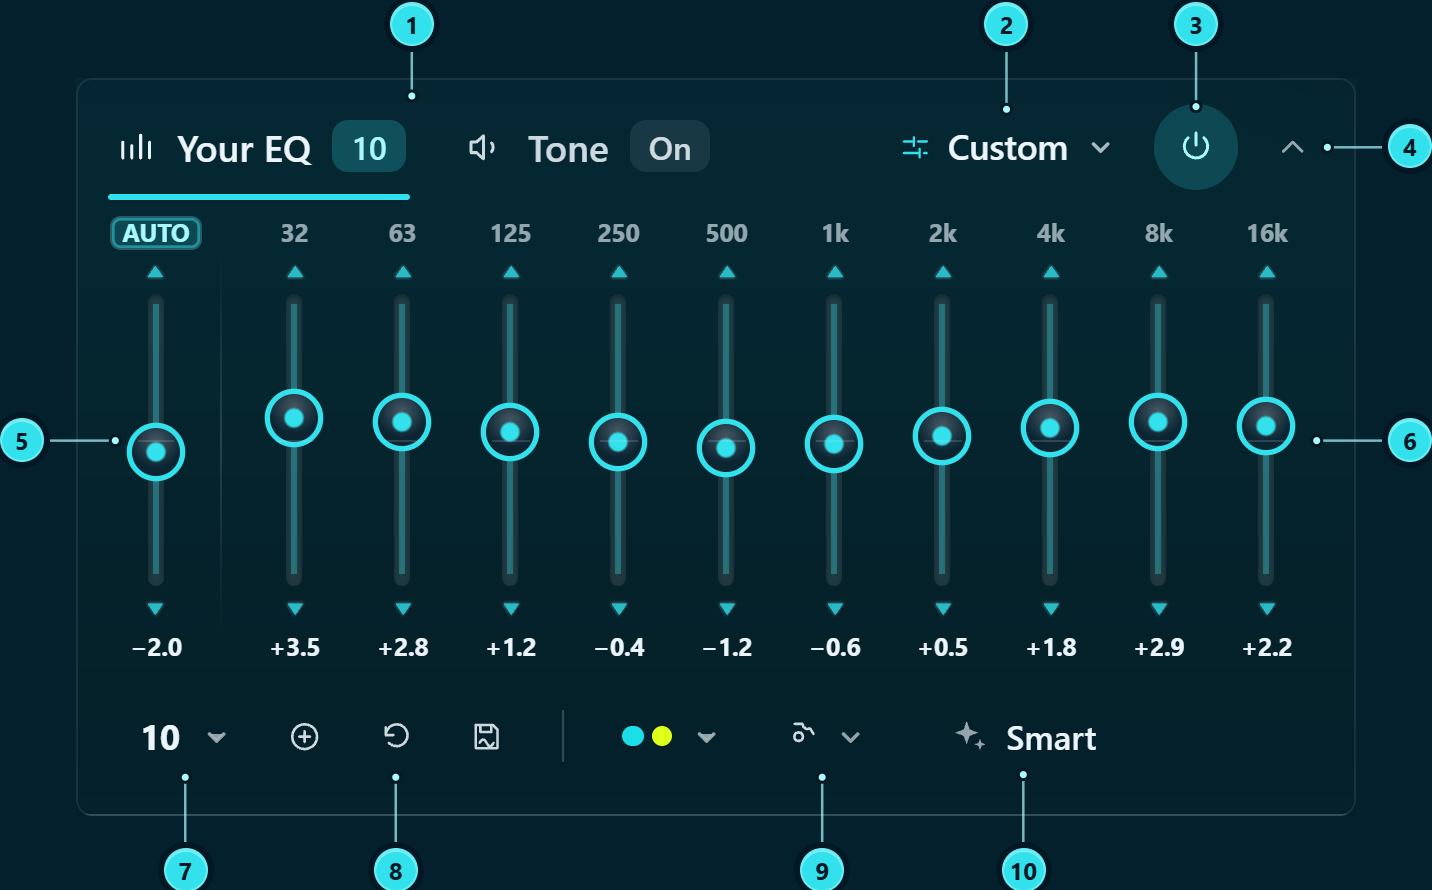
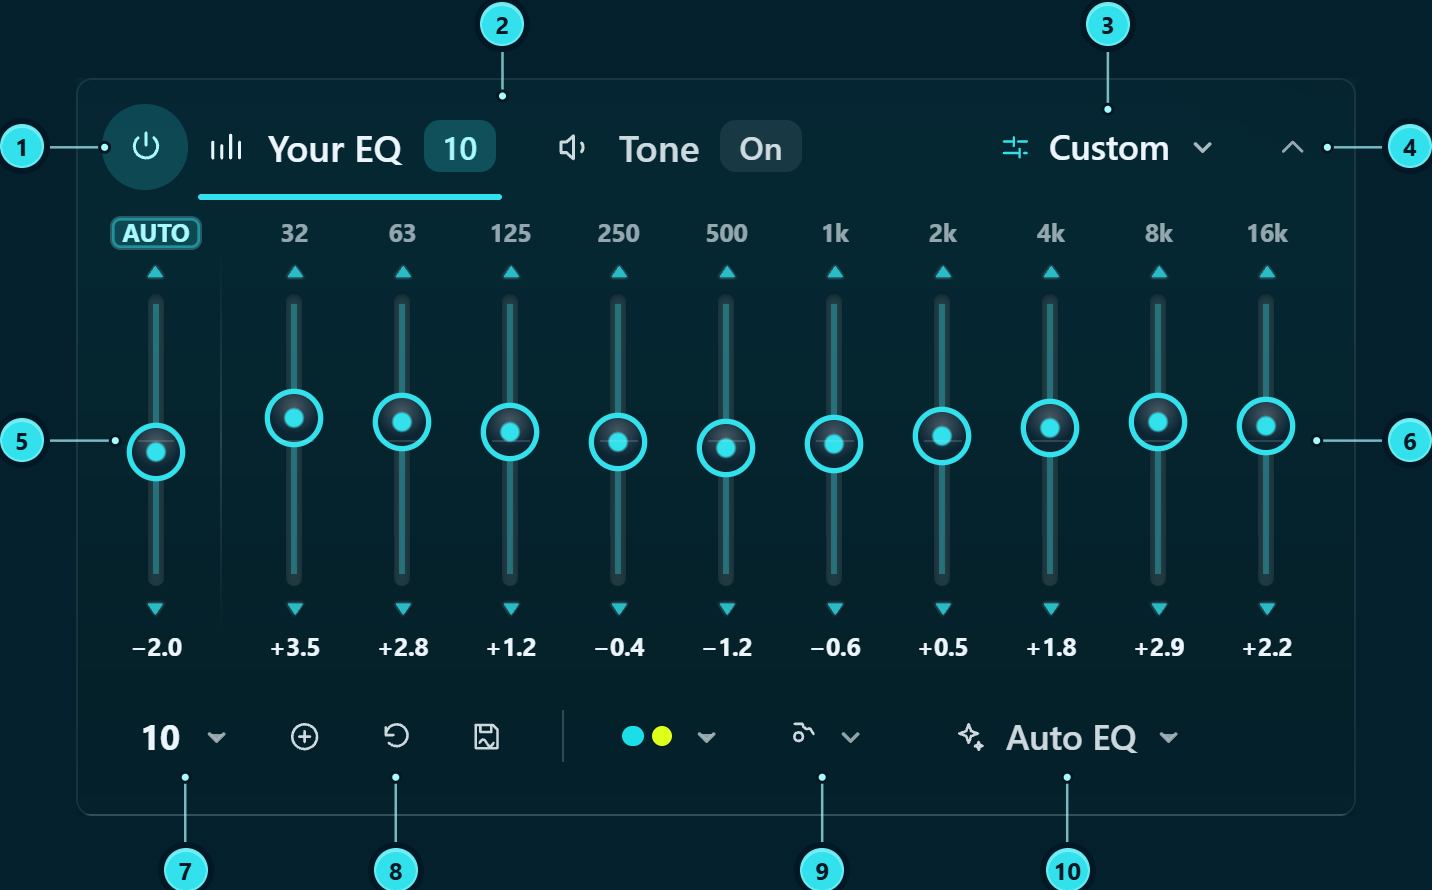
The amp's Smart key gives way to the EQ page's Auto EQ, Smart correction inside its panel
Ivan, 2026-11-27: "smart eq button need to go, instead we show the auto eq
with that menu that have smart eq inside". The amp's two tool rows, under the
faders and under the tone dials, end on AutoEqButton, the page's own
component: its icon, its word and state, its Save half and its panel (song
sounds, album sounds, Smart correction, Manage, Measure once). The panel is
an AnchoredMenu on the button, so it opens over the amp.

- Removed with the key: SmartEqKey.tsx, the .player-split and .player-led
  rules in _miniPlayerSound, _miniPlayerEqKeys and _miniPlayerKeys, the
  lamp's breathing keyframes, the spark glyph in PlayerIcon, and the strings
  only it read (player.eq.smart, eq.smart.cancel) in all 12 locales.
- Help: the chapter's Auto EQ callout targets .eq-auto under the page's name
  for it; the picture draws Auto EQ as the page does (PictureAutoEq). The
  callouts follow the head left to right now that the power key leads it
  (172307cfa): power, the tabs, the preset, the fold. docs/help/
  player-sound.png re-taken.

Checked in the harness at 480 and 700, dark and white: the row fits at its
glyph-only step at 480 and with its words at 700, and the Auto EQ panel
opens inside the amp (8-448 px of 480). Jest, one worker: 34 targeted
suites (player/, AutoEq*, autoEq, help figures and search, i18n keys,
smartEqModeRetired, smartPhaseNote, AppAmpSleep) green. tsc, eslint,
check-styles clean.

diff --git a/src/renderer/styles/_miniPlayerSound.scss b/src/renderer/styles/_miniPlayerSound.scss
@@ -118,75 +118,6 @@ SPDX-License-Identifier: GPL-3.0-or-later
   }
 }
 
-// SMART (Ivan, 2026-11-27: "smart eq ... spark", from the mockups): its
-// spark and its word in the row's quiet type. On, the whole key takes Smart
-// correction's own blue, the colour its line is drawn in on the curve. It was
-// SMART in capitals beside a grey dot, and read as a label rather than a key.
-.mini-player .player-sound .player-split {
-  @include player-quiet(30px);
-  gap: 0;
-  padding: 0;
-  overflow: hidden;
-  cursor: default;
-
-  // The housing is not a control and lights nothing; the switch in it does.
-  &:hover:not(:disabled) {
-    background: none;
-  }
-
-  > .button.player-split__main {
-    gap: 6px;
-    padding: 0 10px;
-
-    &,
-    &:hover:not(:disabled),
-    &:active:not(:disabled) {
-      min-height: 30px;
-      font: inherit;
-    }
-  }
-
-  .player-split__spark {
-    width: 15px;
-    height: 15px;
-    color: var(--player-text-soft);
-    transition: color 160ms ease;
-  }
-
-  // The word alone: a Cancel named on the key pushed the row wider than the
-  // amp (Ivan, 2026-10-25); the spark breathing says it is measuring.
-  .player-led__value {
-    display: none;
-  }
-
-  // On: one face, the key's. The switch's own pressed face, the amp's lit
-  // key, would paint a second colour inside it.
-  > .button.player-split__main[aria-pressed='true']:not(:disabled) {
-    background: none;
-    box-shadow: none;
-  }
-
-  &:has(> .player-split__main[aria-pressed='true']:not(:disabled)) {
-    background: color-mix(in srgb, var(--player-curve-smart) 22%, transparent);
-    color: var(--player-text);
-
-    .player-split__spark {
-      color: var(--player-curve-smart);
-    }
-  }
-
-  // Measuring: the spark breathes while Smart correction listens.
-  &.is-running .player-split__spark {
-    animation: player-lamp-breathe 1.2s ease-in-out infinite;
-  }
-}
-
-@media (prefers-reduced-motion: reduce) {
-  .mini-player .player-sound .player-split.is-running .player-split__spark {
-    animation: none;
-  }
-}
-
 // FluidEQ on or off, as the power sign on a round key: bare while off, lit
 // in the accent while on.
 .player-sound__power {

diff --git a/src/renderer/components/featureTour/PlayerPictureSoundRows.tsx b/src/renderer/components/featureTour/PlayerPictureSoundRows.tsx
@@ -6,6 +6,7 @@ SPDX-License-Identifier: GPL-3.0-or-later
 
 import type { ReactNode } from 'react';
 import '../../styles/EqLayers.scss';
+import '../../styles/EqAutoPanel.scss';
 import EqModeTriggerFace from '../eqMode/EqModeTriggerFace';
 import Chevron from '../../icons/Chevron';
 import MenuIcon from '../../icons/MenuIcon';
@@ -83,17 +84,19 @@ export const PictureSoundHead = ({ face }: { face: 'tone' | 'bands' }) => {
   );
 };
 
-const PictureSmart = () => {
+/** Auto EQ, as the page's button draws it while every part is off. */
+const PictureAutoEq = () => {
   const { t } = useTranslation();
   return (
-    <span className="player-split">
+    <span className="eq-mode eq-auto is-subtle">
       <button
         type="button"
-        className="button small subtle player-led player-split__main"
-        aria-pressed={false}
+        className="button small subtle eq-mode__main"
+        aria-label={t('autoEq.aria')}
       >
-        <PlayerIcon name="spark" className="player-icon player-split__spark" />
-        {t('player.eq.smart')}
+        <MenuIcon name="smart" className="eq-toolbar__icon" />
+        {t('autoEq.title')}
+        <Chevron />
       </button>
     </span>
   );
@@ -120,7 +123,7 @@ const group = (caption: string, children: ReactNode) => (
   </div>
 );
 
-/** Your EQ's tools: BANDS, then VIEW, then Smart. */
+/** Your EQ's tools: BANDS, then VIEW, then Auto EQ. */
 export const PictureBandsTools = () => {
   const { t } = useTranslation();
   return (
@@ -199,12 +202,12 @@ export const PictureBandsTools = () => {
           </div>
         </>,
       )}
-      <PictureSmart />
+      <PictureAutoEq />
     </PictureToolRow>
   );
 };
 
-/** The Tone's tools: Reset Tone, then Smart. */
+/** The Tone's tools: Reset Tone, then Auto EQ. */
 export const PictureToneTools = () => {
   const { t } = useTranslation();
   return (
@@ -213,7 +216,7 @@ export const PictureToneTools = () => {
         <MenuIcon name="reset" className="eq-toolbar__icon" />
         <span className="eq-toolbar__word">{t('eq.tone.reset')}</span>
       </button>
-      <PictureSmart />
+      <PictureAutoEq />
     </PictureToolRow>
   );
 };

diff --git a/src/renderer/player/PlayerSound.tsx b/src/renderer/player/PlayerSound.tsx
@@ -11,6 +11,7 @@ import ClearEqButton from '../components/ClearEqButton';
 import CurvesPicker from '../components/CurvesPicker';
 import EqModeSelect from '../components/EqModeSelect';
 import VoicingQuickPick from '../components/VoicingQuickPick';
+import AutoEqButton from '../eq/autoEq/AutoEqButton';
 import SaveEqMenu from '../eq/autoEq/SaveEqMenu';
 import EqToolGroup from '../eq/EqToolGroup';
 import { cutCorners, isToneInUse } from '../eq/toneCuts';
@@ -24,7 +25,6 @@ import PlayerIcon from './PlayerIcon';
 import PlayerTone from './PlayerTone';
 import PlayerToolRow from './PlayerToolRow';
 import type { TPlayerPage } from './PlayerMarkMenu';
-import SmartEqKey from './SmartEqKey';
 import { type TPlayerSoundFace, usePlayerSound } from './playerLayout';
 import useRowNeed from './useRowNeed';
 
@@ -39,8 +39,10 @@ const FACE_ICON: Record<TPlayerSoundFace, 'eqBars' | 'waveform'> = {
 /**
  * Under the faders, the EQ page's Your EQ tools in the page's order (Ivan,
  * 2026-11-27: "same order as in the full app"): BANDS — how many, Add,
- * Clear, Save EQ; VIEW — the curves and the EQ mode; Smart at the end, where
- * the page keeps Auto EQ.
+ * Clear, Save EQ; VIEW — the curves and the EQ mode; and Auto EQ at the end,
+ * the page's own button, with Smart correction inside its panel (Ivan,
+ * 2026-11-27: "smart eq button need to go, instead we show the auto eq with
+ * that menu that have smart eq inside"). Its panel opens over its button.
  *
  * Every one opens over the amp, anchored to itself (Ivan, 2026-11-27: "it
  * tries to show on side pane not good for amp"): the EQ mode is the menu,
@@ -68,7 +70,7 @@ const BandsTools = ({
         <CurvesPicker onAddCorrection={() => onOpenPage('presets')} />
         <EqModeSelect />
       </EqToolGroup>
-      <SmartEqKey />
+      <AutoEqButton />
     </PlayerToolRow>
   );
 };

diff --git a/src/renderer/player/PlayerTone.tsx b/src/renderer/player/PlayerTone.tsx
@@ -9,6 +9,7 @@ import { MAX_GAIN, PREAMP_MIN_GAIN } from 'common/constants';
 import { ErrorDescription } from 'common/errors';
 import { TONE_MAX_DB } from 'common/tone';
 import useAutoPreAmp from '../components/useAutoPreAmp';
+import AutoEqButton from '../eq/autoEq/AutoEqButton';
 import { isToneInUse, resetToneAndCuts } from '../eq/toneCuts';
 import useTone, { TONE_CONTROLS } from '../eq/useTone';
 import MenuIcon from '../icons/MenuIcon';
@@ -20,7 +21,6 @@ import { useTranslation } from '../utils/I18nContext';
 import Button from '../widgets/Button';
 import ToneKnob from '../widgets/ToneKnob';
 import PlayerToolRow from './PlayerToolRow';
-import SmartEqKey from './SmartEqKey';
 
 /**
  * The equalizer's other face: Bass, Mid and Treble, the EQ page's own three
@@ -30,7 +30,7 @@ import SmartEqKey from './SmartEqKey';
  * 2026-10-25, the one amp: "your three tone knobs and the preamp").
  * Ctrl+click puts one back to flat. Under them, the EQ page's Tone tools:
  * Reset Tone, which puts the three dials and the cuts back together, as the
- * page's does, and Smart at the row's end as under the faders.
+ * page's does, and Auto EQ at the row's end as under the faders.
  *
  * The preamp is the side bar's dial in every way: -60 to +20 with unity at
  * the top of its sweep, and under Auto normalize set for the listener —
@@ -142,7 +142,7 @@ const PlayerTone = () => {
           <MenuIcon name="reset" className="eq-toolbar__icon" />
           <span className="eq-toolbar__word">{t('eq.tone.reset')}</span>
         </Button>
-        <SmartEqKey />
+        <AutoEqButton />
       </PlayerToolRow>
     </>
   );

diff --git a/src/renderer/styles/_miniPlayerEqKeys.scss b/src/renderer/styles/_miniPlayerEqKeys.scss
@@ -8,7 +8,7 @@ SPDX-License-Identifier: GPL-3.0-or-later
 @use 'theme' as *;
 @use 'miniPlayerParts' as *;
 
-// The equalizer's section in the amp: its head row, and Smart's split key.
+// The equalizer's section in the amp: its head row.
 // Each control's face is the sound section's (`_miniPlayerSound.scss`).
 
 // The section itself: the pane is its face, so it draws none of its own.
@@ -70,40 +70,4 @@ SPDX-License-Identifier: GPL-3.0-or-later
 
 .mini-player .rich-pick__glyph {
   color: var(--player-text-soft);
-}
-
-// ======================================================= Smart EQ's key ====
-//
-// ONE KEY, DRAWN ONCE (Ivan, 2026-09-22: "needs to be integrated, not two
-// separated things"). It held the switch and a caret that chose how Smart
-// correction listened; there is one way now (2026-11-27), and the switch
-// fills the key. Its face and its colours are the sound section's; here,
-// only that the switch draws none of its own.
-.mini-player .player-split {
-  display: inline-flex;
-  align-items: center;
-
-  > .button.player-split__main {
-    &,
-    &:hover:not(:disabled),
-    &:active:not(:disabled) {
-      border: 0;
-      border-radius: 0;
-      background: none;
-      box-shadow: none;
-      color: inherit;
-      transform: none;
-    }
-
-    &:hover:not(:disabled) {
-      background: var(--player-hover);
-    }
-  }
-}
-
-// Smart's spark breathes while it listens (`_miniPlayerSound.scss`).
-@keyframes player-lamp-breathe {
-  50% {
-    opacity: 0.35;
-  }
 }

diff --git a/src/__tests__/unit_tests/renderer/player/ampSoundRows.test.tsx b/src/__tests__/unit_tests/renderer/player/ampSoundRows.test.tsx
@@ -74,7 +74,7 @@ jest.mock('renderer/components/EqModeSelect', () => mockStub('mode'));
 jest.mock('renderer/components/eqMode/EqPageModeSelect', () =>
   mockStub('pinnable mode'),
 );
-jest.mock('renderer/player/SmartEqKey', () => mockStub('smart'));
+jest.mock('renderer/eq/autoEq/AutoEqButton', () => mockStub('auto eq'));
 jest.mock('renderer/player/useRowNeed', () => ({
   __esModule: true,
   default: () => undefined,
@@ -117,7 +117,7 @@ describe('the amp’s sound rows', () => {
     fireEvent.click(screen.getByRole('tab', { name: /Your EQ/ }));
   });
 
-  it('lays the EQ page’s tools under the faders in the page’s order, Smart at the end', () => {
+  it('lays the EQ page’s tools under the faders in the page’s order, Auto EQ at the end', () => {
     const { container } = render(<PlayerSound onOpenPage={() => undefined} />);
     const row = container.querySelector('.player-sound__tools');
     expect(row).not.toBeNull();
@@ -128,7 +128,7 @@ describe('the amp’s sound rows', () => {
       'save',
       'curves',
       'mode',
-      'smart',
+      'auto eq',
     ]);
   });
 });

diff --git a/src/common/helpChapters/start.ts b/src/common/helpChapters/start.ts
@@ -295,6 +295,11 @@ const START_CHAPTERS = [
         still: 'help/player-sound.png',
         controls: [
           {
+            target: '.player-sound__power',
+            name: 'sidebar.systemEq',
+            text: 'help.window.systemEq',
+          },
+          {
             target: '.player-sound__tabs',
             name: 'eq.tabs.bands',
             text: 'help.player.tone',
@@ -303,11 +308,6 @@ const START_CHAPTERS = [
             target: '.voicing-pick',
             name: 'dsp.presets',
             text: 'help.eq.voicing',
-          },
-          {
-            target: '.player-sound__power',
-            name: 'sidebar.systemEq',
-            text: 'help.window.systemEq',
           },
           {
             target: '.player-sound__fold',
@@ -340,8 +340,8 @@ const START_CHAPTERS = [
             text: 'help.player.mode',
           },
           {
-            target: '.player-split',
-            name: 'eq.smart',
+            target: '.eq-auto',
+            name: 'autoEq.title',
             text: 'help.eq.smart',
           },
         ],

diff --git a/src/renderer/styles/_miniPlayerKeys.scss b/src/renderer/styles/_miniPlayerKeys.scss
@@ -8,30 +8,7 @@ SPDX-License-Identifier: GPL-3.0-or-later
 @use 'theme' as *;
 @use 'miniPlayerParts' as *;
 
-// The keys that are lit while on — Smart's split key — and the bare glyph
-// keys.
-
-// ============================================================ lamp keys ====
-//
-// A pill lit while it is on. `button small subtle`
-// underneath, so it disables and takes focus as every quiet button in the
-// app does; its face is the amp's pill, and on it is lit.
-.mini-player,
-.player-menu {
-  .button.player-led {
-    @include player-pill;
-
-    &[aria-pressed='true']:not(:disabled) {
-      @include player-key-on;
-    }
-  }
-}
-
-// What a key is set to, quieter than its name beside it.
-.player-led__value {
-  color: var(--player-text-muted);
-  font-weight: $weight-medium;
-}
+// The bare glyph keys.
 
 // ========================================================== glyph keys =====
 .player-icon-button {

diff --git a/src/common/i18n/hi/eq.ts b/src/common/i18n/hi/eq.ts
@@ -747,7 +747,6 @@ const eq: Partial<Dictionary> = {
     'कोई एक्सपोर्ट पेस्ट करें, ताकि EQ में उसे आगे बारीक़ी से सेट करने से पहले आप उसका आकार देख सकें।',
   'eq.title': 'पैरामीट्रिक EQ',
   'eq.smart': 'स्मार्ट सुधार',
-  'eq.smart.cancel': 'रद्द करें',
   'eq.smart.continuousAria':
     'संगीत चलते समय स्मार्ट सुधार मापता और समायोजित करता रहे',
   'eq.layers.aria': 'इस आउटपुट पर और क्या असर डाल रहा है',

diff --git a/src/common/i18n/ru/eq.ts b/src/common/i18n/ru/eq.ts
@@ -755,7 +755,6 @@ const eq: Partial<Dictionary> = {
     'Вставьте экспорт, чтобы увидеть его форму, прежде чем продолжить точную настройку в EQ.',
   'eq.title': 'Параметрический эквалайзер',
   'eq.smart': 'Умная коррекция',
-  'eq.smart.cancel': 'Отмена',
   'eq.smart.continuousAria':
     'Продолжать измерять и подстраивать умную коррекцию во время музыки',
   'eq.layers.aria': 'Что ещё влияет на этот выход',

diff --git a/src/renderer/player/PlayerIcon.tsx b/src/renderer/player/PlayerIcon.tsx
@@ -80,9 +80,6 @@ const FILLED = {
   stop: 'M7.6 6h8.8A1.6 1.6 0 0 1 18 7.6v8.8a1.6 1.6 0 0 1-1.6 1.6H7.6A1.6 1.6 0 0 1 6 16.4V7.6A1.6 1.6 0 0 1 7.6 6z',
   previous: 'M6 5h2.3v14H6zM19.5 5.2v13.6L9.3 12z',
   next: 'M15.7 5H18v14h-2.3zM4.5 5.2v13.6L14.7 12z',
-  // Smart correction: a large spark and a small one beside it.
-  spark:
-    'M10 3l1.9 5.1L17 10l-5.1 1.9L10 17l-1.9-5.1L3 10l5.1-1.9zM18 13.5l.9 2.6 2.6.9-2.6.9-.9 2.6-.9-2.6-2.6-.9 2.6-.9z',
   // The player glyph's play key, filled inside the stroked deck.
   playerKey: 'M7.2 9.6v4.8l4-2.4z',
 } as const;

diff --git a/src/common/i18n/hi/player.ts b/src/common/i18n/hi/player.ts
@@ -32,7 +32,6 @@ export default {
   'player.seekNone': 'इस स्रोत में गाने के किसी और हिस्से पर नहीं जाया जा सकता',
   'player.eq.aria': 'इक्वलाइज़र',
   'player.eq.onHint': 'FluidEQ चालू या बंद करें',
-  'player.eq.smart': 'स्मार्ट',
   'player.eq.pre': 'प्री',
   'player.eq.auto': 'ऑटो',
   'player.eq.autoHint': 'ऑटो नॉर्मलाइज़ चालू करें',
